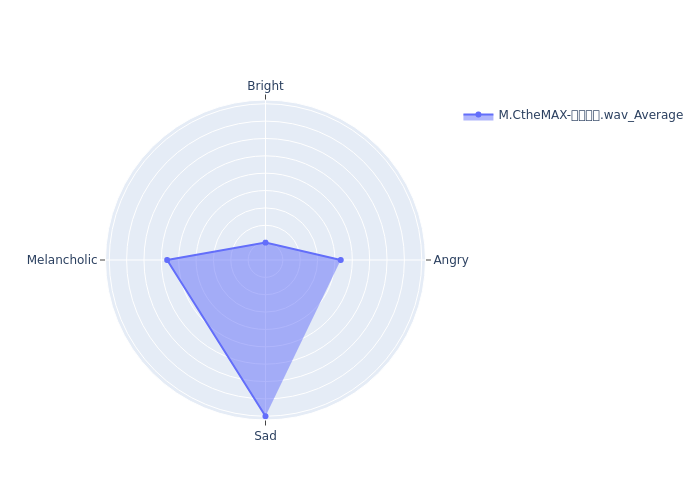
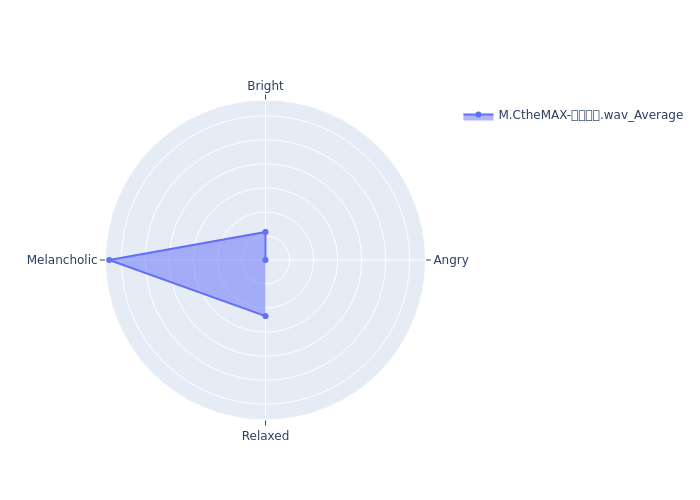
903 8songs testing with 4 labels

Changed region(s): [[0.15, 0.45, 0.51, 0.9]]

diff --git a/yt_dataset_testing/mood_timeline_viewer.py b/yt_dataset_testing/mood_timeline_viewer.py
@@ -4,8 +4,8 @@ from tensorflow import keras
 import os
 
 # Load the saved model
-saved_model_path = "../mood_classification/results/903_PCRNN_2D_snapmuse_6_3sec/saved_model"
-test_data_path = "snap6_8songs_5sec.json"
+saved_model_path = "../mood_classification/results/903_PCRNN_2D_pixabay_3sec/saved_model"
+test_data_path = "p4_8songs_3sec.json"
 
 def load_testing_data(test_data_path):
     with open(test_data_path, "r") as fp:
@@ -31,11 +31,9 @@ predicted_class_indices = np.argmax(predictions, axis=1)
 # Define your label list mapping class indices to labels
 label_list = {
     0: "Angry",
-    1: "Calm",
-    2: "Energetic",
-    3: "Melancholic",
-    4: "Tense",
-    5: "Uplifting"
+    1: "Bright",
+    2: "Melancholic",
+    3: "Relaxed"
 }
 
 # Assuming label_list contains the mapping of class indices to labels
@@ -47,7 +45,7 @@ for i, label in enumerate(predicted_labels):
     time += 1
     counter += 1
 
-    if counter % 36  == 0:
+    if counter % 60  == 0:
         time = 0
 
 print(predicted_labels)

diff --git a/yt_dataset_testing/predict_mood.py b/yt_dataset_testing/predict_mood.py
@@ -38,7 +38,7 @@ label_list = {
     0: "Angry",
     1: "Bright",
     2: "Melancholic",
-    3: "Sad"
+    3: "Relaxed"
 }
 
 # Initialize variables for percentage calculation
